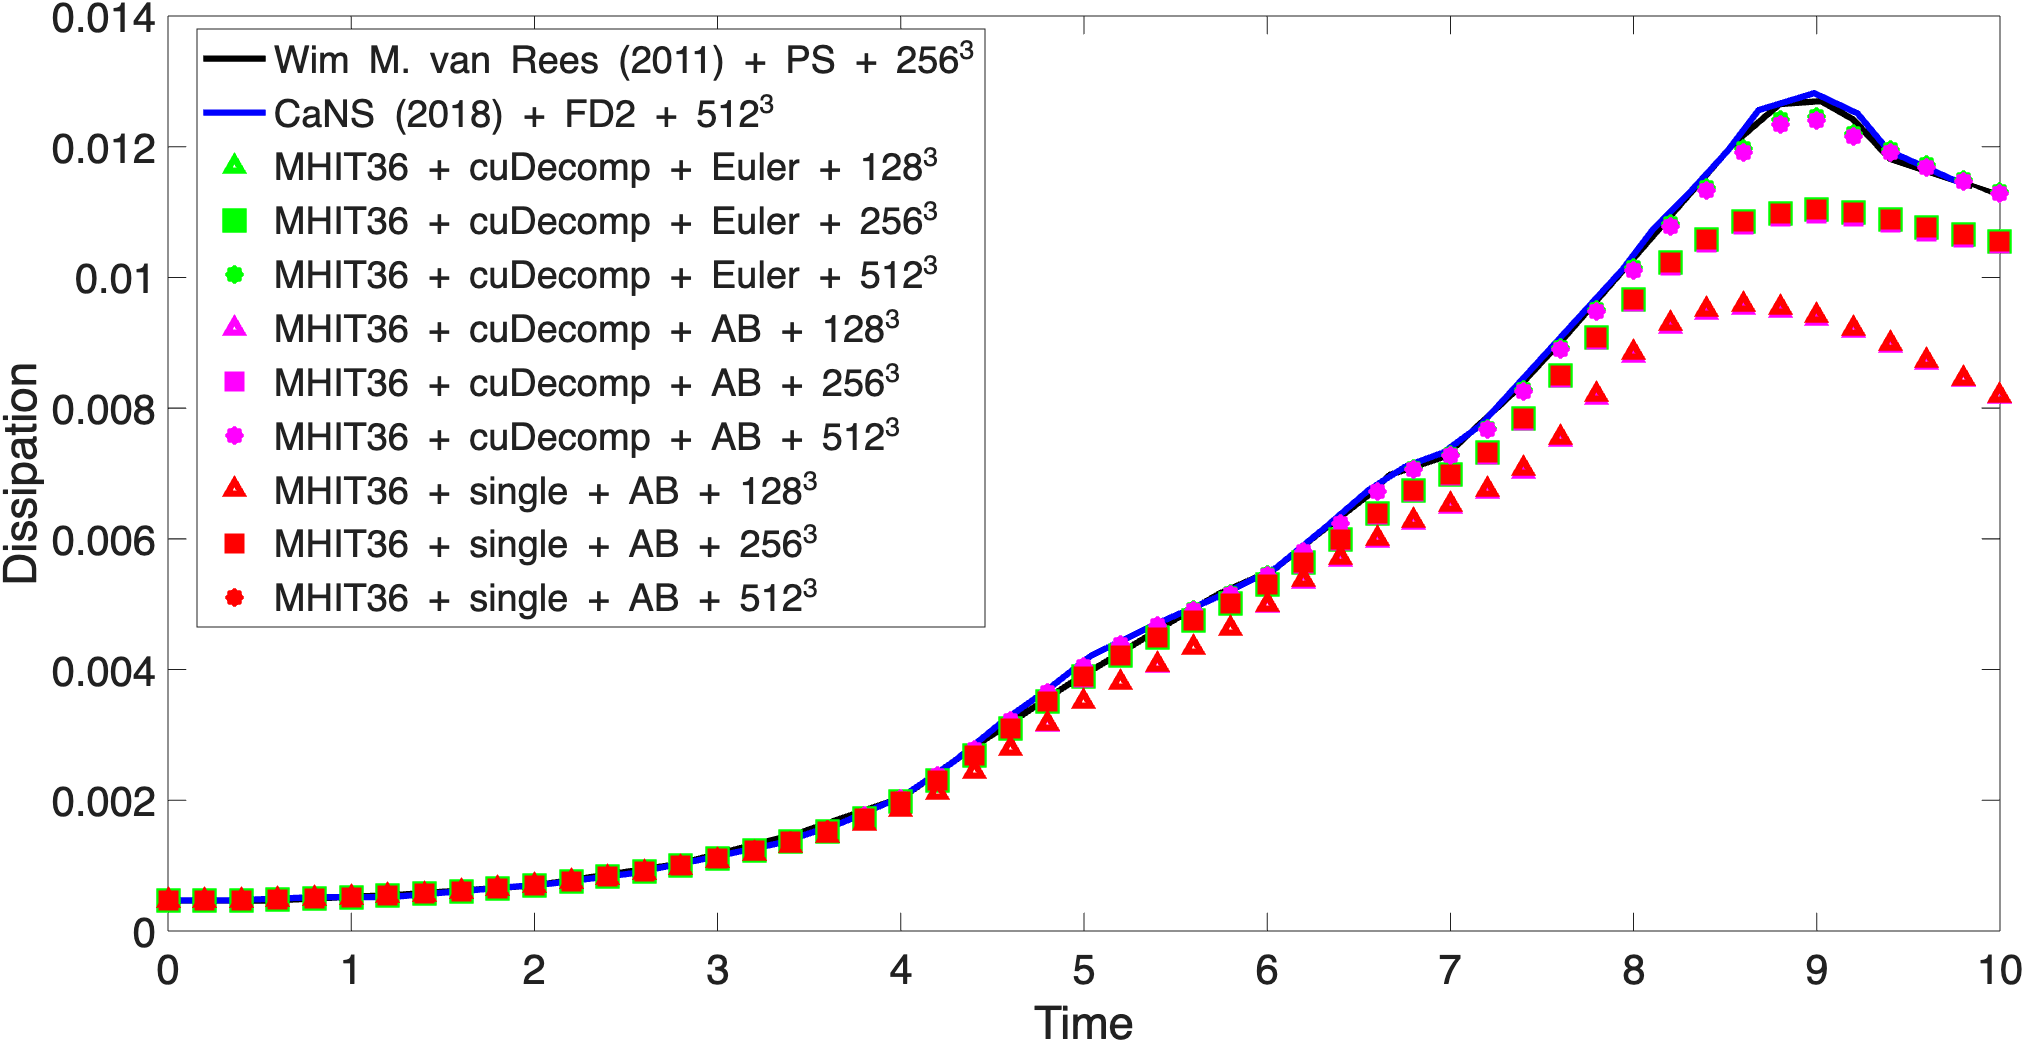
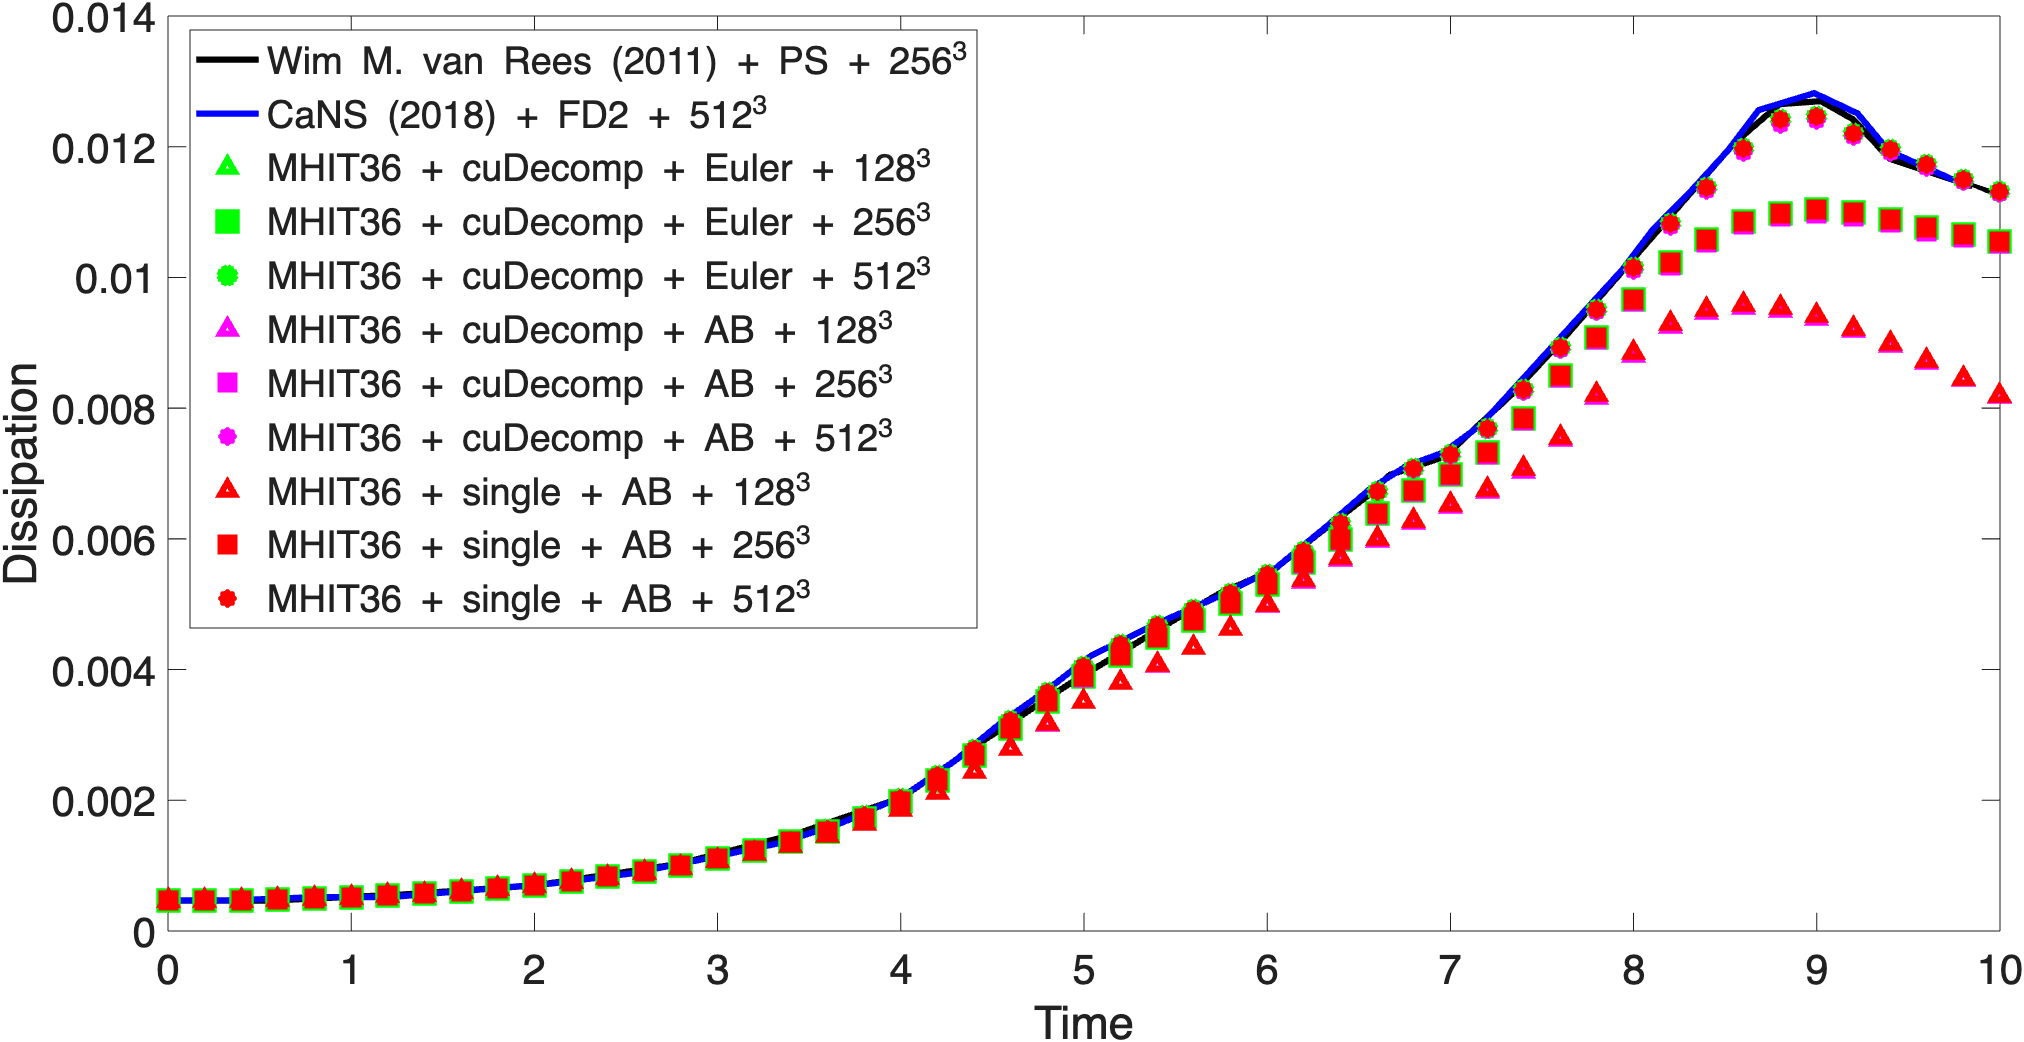
test_completed

diff --git a/val/comparison_diss.m b/val/comparison_diss.m
@@ -29,7 +29,7 @@ hold on
 plot(cans(:,1),cans(:,2),'-b','LineWidth',3.0,'DisplayName','CaNS (2018) + FD2 + 512^3')
 plot(cudec128e(:,1),cudec128e(:,2),'^g','LineWidth',3.0,'DisplayName','MHIT36 + cuDecomp + Euler + 128^3')
 plot(cudec256e(:,1),cudec256e(:,2),'sg','LineWidth',10.0,'DisplayName','MHIT36 + cuDecomp + Euler + 256^3')
-plot(cudec512e(:,1),cudec512e(:,2),'*g','LineWidth',7.0,'DisplayName','MHIT36 + cuDecomp + Euler + 512^3')
+plot(cudec512e(:,1),cudec512e(:,2),'*g','LineWidth',9.0,'DisplayName','MHIT36 + cuDecomp + Euler + 512^3')
 plot(cudec128ab(:,1),cudec128ab(:,2),'^m','LineWidth',3.0,'DisplayName','MHIT36 + cuDecomp + AB + 128^3')
 plot(cudec256ab(:,1),cudec256ab(:,2),'sm','LineWidth',7.0,'DisplayName','MHIT36 + cuDecomp + AB + 256^3')
 plot(cudec512ab(:,1),cudec512ab(:,2),'*m','LineWidth',7.0,'DisplayName','MHIT36 + cuDecomp + AB + 512^3')

diff --git a/README.md b/README.md
@@ -30,6 +30,7 @@ Strange behaviof of the convective terms, introduced internal update if pr=1 or 
 - 25/02/25: Improvement of Poisson solver (removed one block when copy in the rhsp); performance looks promising. Stop working on the code; perform full validation and scaling of this version; consider moving from EE to AB2; Leo in manteinance, wait tomorrow for some tests.
 - 26/02/25: Everyhting looks good; testing using the WMR benchmark. cuDecomp and single GPU version match very well; AB2 vs Euler minor differences. Added post-processing folder to compute dissipation. TG test seems very good, agreement with CaNS and other results. Time integration modified to AB2, test looks good.
 - 27/02/25: Strong scaling tests on Leonardo, nice scaling even for very small grids and using gpu managed memory.
+- 28/02/25: Finalized validation with the TG benchmark, eveything looks good, try 1024^3? scaling also good, try 4096^3 avoid output (540 GB x file)
 
 # Multi-GPU version status
 
@@ -48,13 +49,13 @@ Strange behaviof of the convective terms, introduced internal update if pr=1 or 
 - Forcing ✅
 - HIT validation ❌
 - Drop oscillation validation ❌
-- Full code scaling ❌
+- Full code scaling ✅
 - MPI writing (no halo)  ✅
 - MPI reading (no halo) (to be tested)
 - Serial reading (to avoid issue with Leonardo) ❌
-- Courant number check (MPI reduction) ❌ !only from rank 0? enough?
+- Courant number check (MPI reduction) ✅ !only from rank 0? enough?
 - MPI I/O with different configurations (color by rank), exstensive check fo this part. ❌
-- Move from Euler to AB2 as in MHIT36 (wait to see if spectra results look ok) ❌
+- Move from Euler to AB2 as in MHIT36  ✅
 - Acceleration of some parts (not done at the moment to debug the solver) ✅
 - Check divergence of the fields ✅
 
@@ -76,17 +77,21 @@ Performance (NS only)
 * 256 x 256 x 256 | 4 x A100@Leonardo  |   44 ms/timestep
 * 512 x 512 x 512 | 4 x A100@Leonardo  |  470 ms/timestep
 * 512 x 512 x 512 | 8 x A100@Leonardo  |  200 ms/timestep
+* 512 x 512 x 512 | 8 x A100@Leonardo  |  200 ms/timestep
+* 1024 x 1024 x 1024 | 64 x A100@Leonardo | 272 ms/timestep
+* 2048 x 2048 x 2048 | 256 x A100@Leonardo | 740 ms/timestep
 
 
 Max resolution tested (Poisson only):
 *  768 x  768 x  768 | 2 x RTX5000@milton - 16 GB VRAM
-* 2048 x 2048 x 2048 | 32 x A100@Leonardo - 64 GB VRAm
+* 2048 x 2048 x 2048 | 32 x A100@Leonardo - 64 GB VRAm (also tested on 128/256 GPUs)
 
 
 # Scaling
 
-Strong scaling on Leonardo (4 x A100 64 GB x node)
-Tested from 1 node up to 32 nodes (ATM)
+Strong scaling results obtained on Leonardo (4 x A100 64 GB x node)
+* Tested from 1 node up to 64 nodes
+* Grid from 64 x 64 x 64 up to 2048 x 2048 x 2048
 
 ![Scal](val/scaling.png)
 
